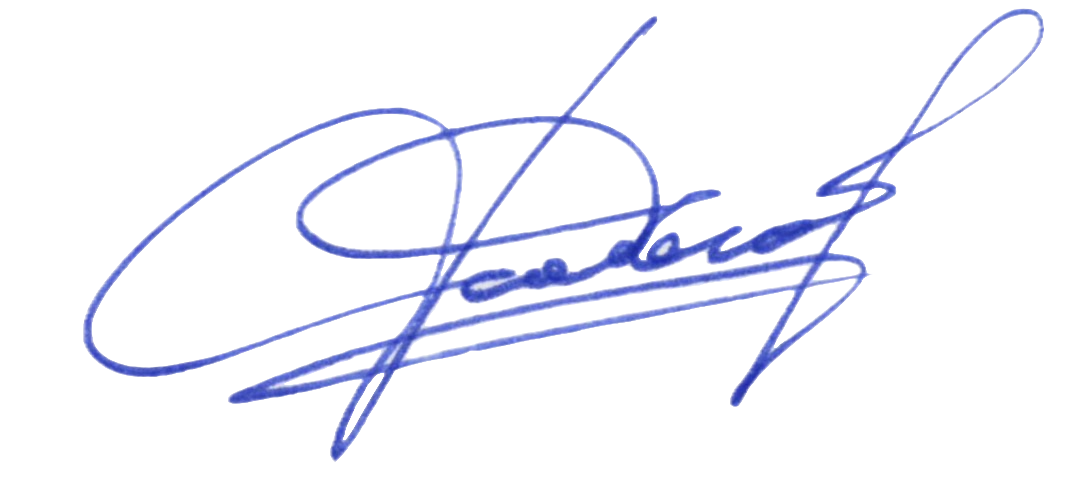
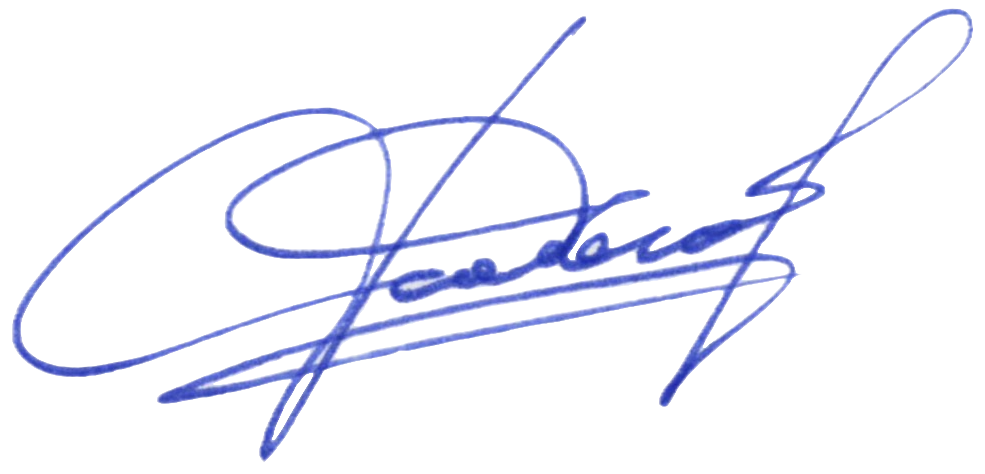
Договір: підпис адвоката у .docx при е-підписанні (КЕП)
Коли ввімкнено «Клієнт підписує документи через КЕП» (договір
підписується в електронному вигляді), у поле підпису Адвоката тепер
вставляється зображення його підпису (dogovir/sign.png).

Механізм (усе на клієнті, без зовнішніх запитів окрім самого sign.png):
— зображення підпису вкладається у word/media, додається звʼязок у
  document.xml.rels і тип png у [Content_Types].xml;
— <w:drawing> вставляється саме в комірку підпису Адвоката (перша
  комірка того рядка таблиці підписів, де у Клієнта «КЕП_підпис»);
— працює для всіх договірних шаблонів (адвокат / юр.особа / ФОП-клієнт);
— якщо КЕП вимкнено або файлу підпису нема — договір формується як
  раніше, без підпису (жодних помилок).

sign.png обрізано по контуру (прозоре тло), масштаб — 4.2 см завширшки.
Перевірено: XML валідний, .docx відкривається, реальний шлях коду в
Chromium дає підпис при КЕП=увімк. і не дає при КЕП=вимк.

Claude-Session: https://claude.ai/code/session_017dyN1DEQmDMhMSzuNCatZ5

diff --git a/dogovir/index.html b/dogovir/index.html
@@ -380,7 +380,7 @@ input[readonly]{background:#f1f3f7;color:var(--ink-2)}
               <input type="checkbox" id="f_kep" style="width:16px;height:16px;accent-color:var(--seal)">
               Клієнт підписує документи через КЕП (кваліфікований електронний підпис)
             </label>
-            <div class="sub-hint">Додає до розділу «Заключні положення» пункт: Договір і документи на його виконання можуть підписуватись КЕП (ст. 18 ЗУ «Про електронні довірчі послуги»). За замовчуванням вимкнено.</div>
+            <div class="sub-hint">Додає до розділу «Заключні положення» пункт: Договір і документи на його виконання можуть підписуватись КЕП (ст. 18 ЗУ «Про електронні довірчі послуги»); у полі Клієнта — позначка «Підписано за допомогою КЕП», а в полі Адвоката проставляється його підпис (електронний вигляд). За замовчуванням вимкнено.</div>
           </div>
         </div>
 
@@ -1894,6 +1894,7 @@ function fillTemplateXml(xml, D){
   }
   /* незаповнені плейсхолдери шаблона не лишаються в документі;
      перелік закритий — текст у лапках («Адвокат», «Клієнт», «Сторони») не чіпається */
+  if(D.sig) xml=injectAdvocateSign(xml, D.sig.cx, D.sig.cy);
   xml=xml.split("«КЕП_підпис»").join(D.kep ? "Підписано за допомогою КЕП" : "");
   for(const k of PLACEHOLDERS) xml=xml.split("«"+k+"»").join("");
   return xml;
@@ -1903,6 +1904,81 @@ function b64ToUint8(b64){
   const bin=atob(b64); const len=bin.length; const arr=new Uint8Array(len);
   for(let i=0;i<len;i++) arr[i]=bin.charCodeAt(i);
   return arr;
+}
+
+/* ---------- підпис адвоката (для е-підписання) ----------
+   Коли ввімкнено «Клієнт підписує документи через КЕП» (тобто договір
+   підписується в електронному вигляді), у поле підпису Адвоката
+   вставляється зображення його підпису (файл dogovir/sign.png).
+   Якщо файлу немає або він не завантажився — підпис просто не додається,
+   а договір формується як звичайно (жодних помилок). */
+const SIGN_URL="sign.png", SIGN_REL_ID="rId900", SIGN_MEDIA="word/media/sign_adv.png";
+const SIGN_WIDTH_CM=4.2;
+let _signCache; /* undefined — ще не пробували; null — недоступний; {cx,cy,bytes} — готовий */
+async function loadSignature(){
+  if(_signCache!==undefined) return _signCache;
+  try{
+    const r=await fetch(SIGN_URL,{cache:"force-cache"});
+    if(!r.ok) throw 0;
+    const bytes=new Uint8Array(await r.arrayBuffer());
+    if(!(bytes[0]===0x89 && bytes[1]===0x50 && bytes[2]===0x4E && bytes[3]===0x47)) throw 0; /* не PNG */
+    const w=(bytes[16]<<24|bytes[17]<<16|bytes[18]<<8|bytes[19])>>>0;
+    const h=(bytes[20]<<24|bytes[21]<<16|bytes[22]<<8|bytes[23])>>>0;
+    if(!w||!h) throw 0;
+    const cx=Math.round(SIGN_WIDTH_CM*360000), cy=Math.round(cx*h/w);
+    _signCache={cx,cy,bytes};
+  }catch(e){ _signCache=null; }
+  return _signCache;
+}
+/* один inline-малюнок (run) із заданим унікальним id */
+function signRunXml(cx,cy,id){
+  const A="http://schemas.openxmlformats.org/drawingml/2006/main";
+  const P="http://schemas.openxmlformats.org/drawingml/2006/picture";
+  return '<w:r><w:drawing><wp:inline distT="0" distB="0" distL="0" distR="0">'
+    +'<wp:extent cx="'+cx+'" cy="'+cy+'"/><wp:effectExtent l="0" t="0" r="0" b="0"/>'
+    +'<wp:docPr id="'+id+'" name="Підпис адвоката"/>'
+    +'<wp:cNvGraphicFramePr><a:graphicFrameLocks xmlns:a="'+A+'" noChangeAspect="1"/></wp:cNvGraphicFramePr>'
+    +'<a:graphic xmlns:a="'+A+'"><a:graphicData uri="'+P+'">'
+    +'<pic:pic xmlns:pic="'+P+'"><pic:nvPicPr><pic:cNvPr id="'+id+'" name="Підпис адвоката"/><pic:cNvPicPr/></pic:nvPicPr>'
+    +'<pic:blipFill><a:blip r:embed="'+SIGN_REL_ID+'"/><a:stretch><a:fillRect/></a:stretch></pic:blipFill>'
+    +'<pic:spPr><a:xfrm><a:off x="0" y="0"/><a:ext cx="'+cx+'" cy="'+cy+'"/></a:xfrm>'
+    +'<a:prstGeom prst="rect"><a:avLst/></a:prstGeom></pic:spPr>'
+    +'</pic:pic></a:graphicData></a:graphic></wp:inline></w:drawing></w:r>';
+}
+/* вставляє підпис у комірку Адвоката — першу комірку того рядка таблиці
+   підписів, де у Клієнта стоїть «КЕП_підпис» (виконувати ДО заміни «КЕП_підпис») */
+function injectAdvocateSign(xml, cx, cy){
+  let id=900;
+  return xml.replace(/<w:tr\b[^>]*>(?:(?!<\/w:tr>)[\s\S])*?«КЕП_підпис»(?:(?!<\/w:tr>)[\s\S])*?<\/w:tr>/g,
+    function(row){
+      return row.replace(/(<w:tc>\s*<w:tcPr>[\s\S]*?<\/w:tcPr>\s*<w:p\b[^>]*>)([\s\S]*?)(<\/w:p>)/,
+        function(m,a,b,c){ return a+b+signRunXml(cx,cy,id++)+c; });
+    });
+}
+/* додає зображення підпису + звʼязок (.rels) + тип png у пакет .docx */
+async function addSignatureAssets(zip, bytes){
+  zip.file(SIGN_MEDIA, bytes);
+  const relPath="word/_rels/document.xml.rels";
+  let rels=await zip.file(relPath).async("string");
+  if(rels.indexOf('Id="'+SIGN_REL_ID+'"')<0){
+    rels=rels.replace("</Relationships>",
+      '<Relationship Id="'+SIGN_REL_ID+'" Type="http://schemas.openxmlformats.org/officeDocument/2006/relationships/image" Target="media/sign_adv.png"/></Relationships>');
+    zip.file(relPath, rels);
+  }
+  let ct=await zip.file("[Content_Types].xml").async("string");
+  if(ct.indexOf('Extension="png"')<0){
+    ct=ct.replace("</Types>",'<Default Extension="png" ContentType="image/png"/></Types>');
+    zip.file("[Content_Types].xml", ct);
+  }
+}
+/* якщо ввімкнено КЕП і підпис доступний — готує пакет і повертає {cx,cy};
+   інакше null. Викликати з prepareDoc/prepareDocFop перед заповненням. */
+async function prepareAdvocateSign(zip, kep, xml){
+  if(!kep || xml.indexOf("«КЕП_підпис»")<0) return null;
+  const sig=await loadSignature();
+  if(!sig) return null;
+  await addSignatureAssets(zip, sig.bytes);
+  return {cx:sig.cx, cy:sig.cy};
 }
 
 /* ---------- generate docx ---------- */
@@ -1987,6 +2063,7 @@ async function prepareDoc(){
   const safe=(s)=>String(s).replace(/[^\p{L}\p{N}\-_. ]/gu,"").replace(/\s+/g,"_").slice(0,50);
   const cnameShort = clientType()==="yur" ? (clientName()||"Клієнт") : (shortName(fName.value)||"Клієнт");
   const suffix=`№${safe($("#f_num").value.trim())}_${safe(cnameShort)}`;
+  D.sig = await prepareAdvocateSign(zip, D.kep, xml);
   return {zip, filled: fillTemplateXml(xml, D), suffix};
 }
 
@@ -2052,6 +2129,7 @@ function fillFopXml(xml, D){
   map["Вартість_послуг_грн"]=D.totalAct;
   for(const k in map){ xml=xml.split("«"+k+"»").join(val(map[k])); }
   if(!D.kep) xml=dropParagraph(xml,"кваліфікованого електронного підпису");
+  if(D.sig) xml=injectAdvocateSign(xml, D.sig.cx, D.sig.cy);
   xml=xml.split("«КЕП_підпис»").join(D.kep ? "Підписано за допомогою КЕП" : "");
   for(const k of FOP_PLACEHOLDERS) xml=xml.split("«"+k+"»").join("");
   return xml;
@@ -2102,6 +2180,7 @@ async function prepareDocFop(){
   };
   const safe=(s)=>String(s).replace(/[^\p{L}\p{N}\-_. ]/gu,"").replace(/\s+/g,"_").slice(0,50);
   const suffix=`№${safe($("#f_num").value.trim())}_${safe(zamShort||"Замовник")}`;
+  D.sig = await prepareAdvocateSign(zip, D.kep, xml);
   return {zip, filled: fillFopXml(xml, D), suffix};
 }
 
